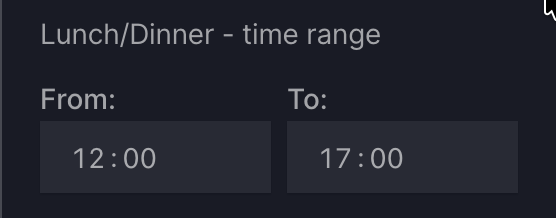
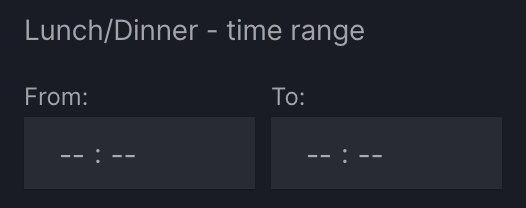
Changelog and screenshots for compendium

diff --git a/vizro-core/changelog.d/20260528_142621_petar_pejovic_time_picker.md b/vizro-core/changelog.d/20260528_142621_petar_pejovic_time_picker.md
@@ -18,7 +18,7 @@ Uncomment the section that is right (remove the HTML comment wrapper).
 -->
 ### Added
 
-- Add `vm.TimePicker` model as a new time-of-day selector for `Filter` and `Parameter`. It is the default selector for `time` columns, and can also be used on `datetime` columns to filter on the time-of-day component. See the [user guide on selectors](https://vizro.readthedocs.io/en/stable/pages/user-guides/selectors/) for more details. ([#1746](https://github.com/mckinsey/vizro/pull/1746))
+- Introduce `TimePicker` as a new selector for `Filter` and `Parameter`. See the [user guide on selectors](https://vizro.readthedocs.io/en/stable/pages/user-guides/selectors/) for more details. ([#1746](https://github.com/mckinsey/vizro/pull/1746))
 
 <!--
 ### Changed